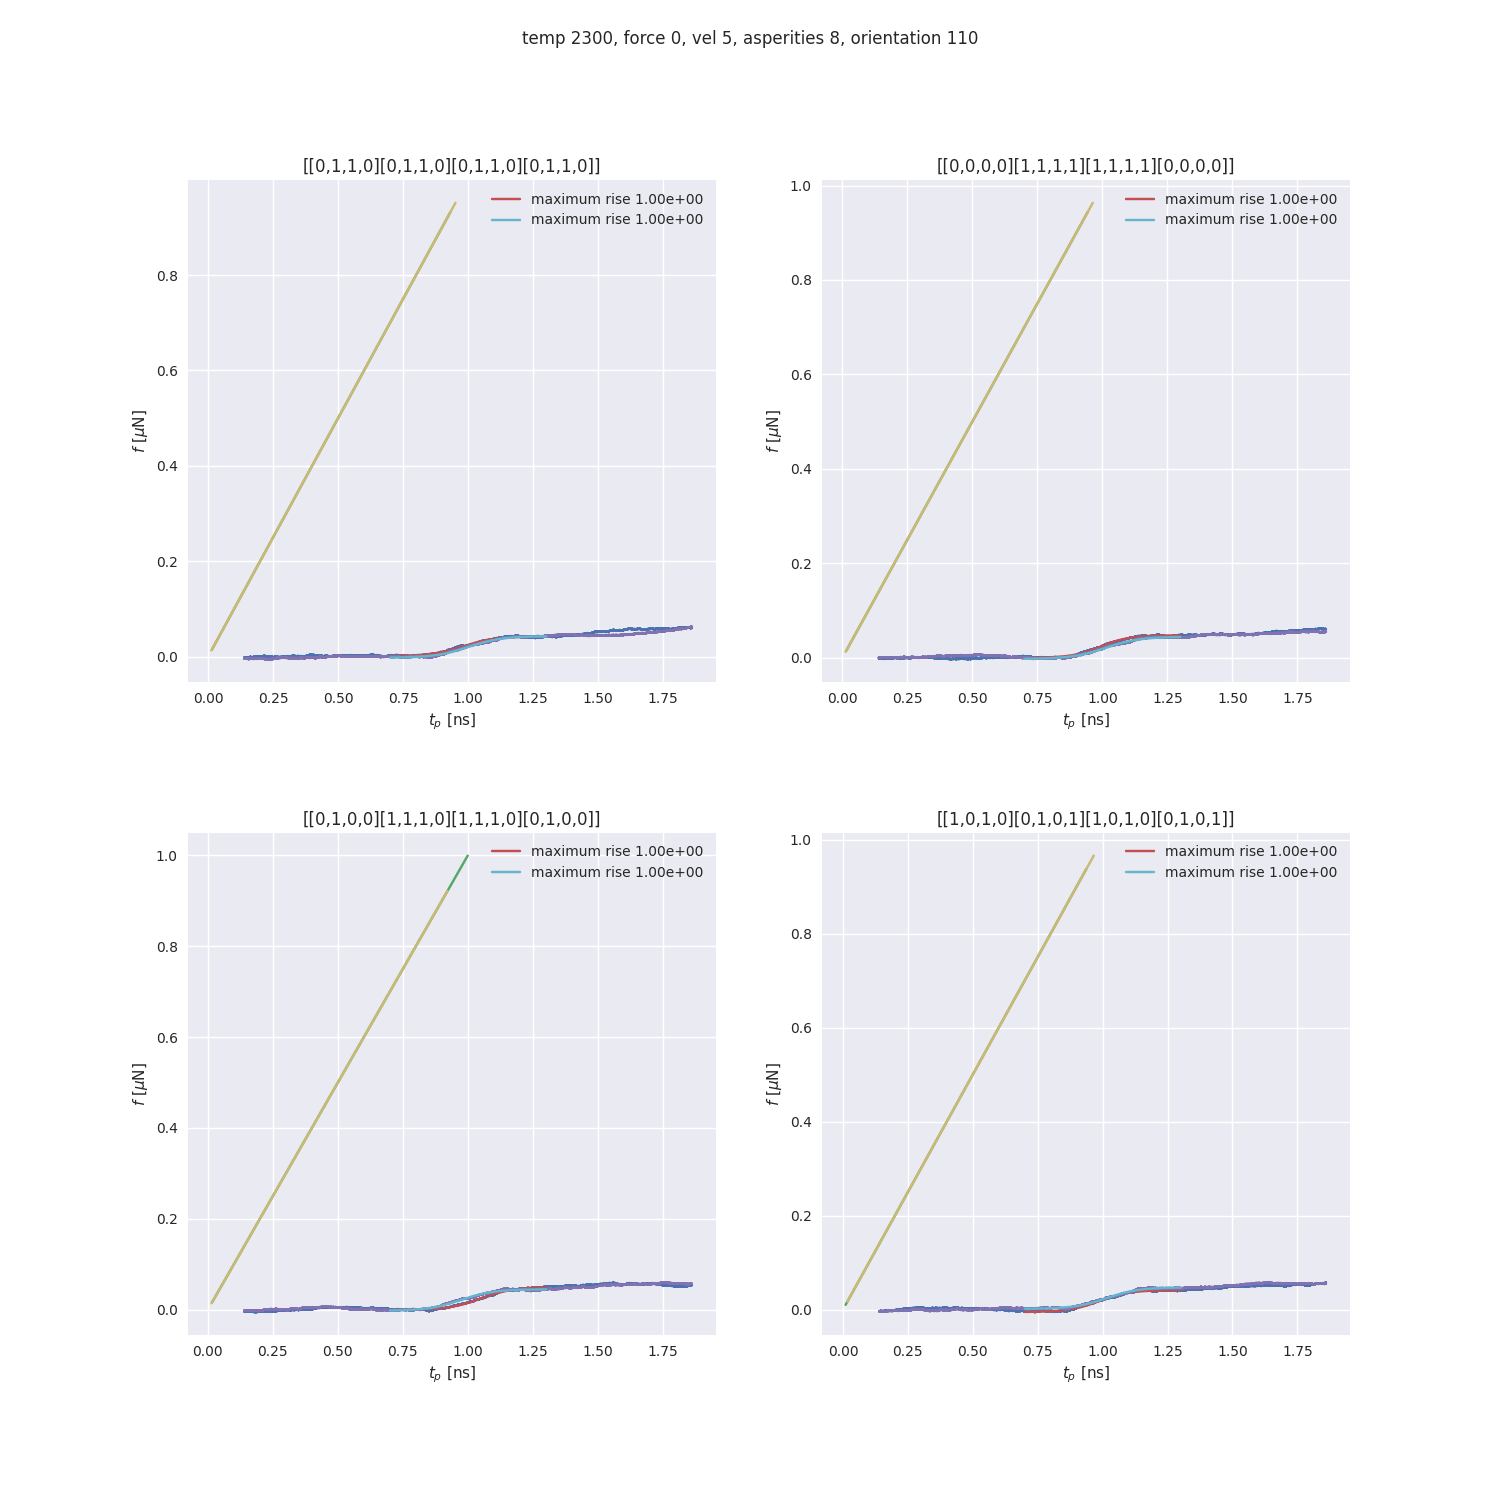
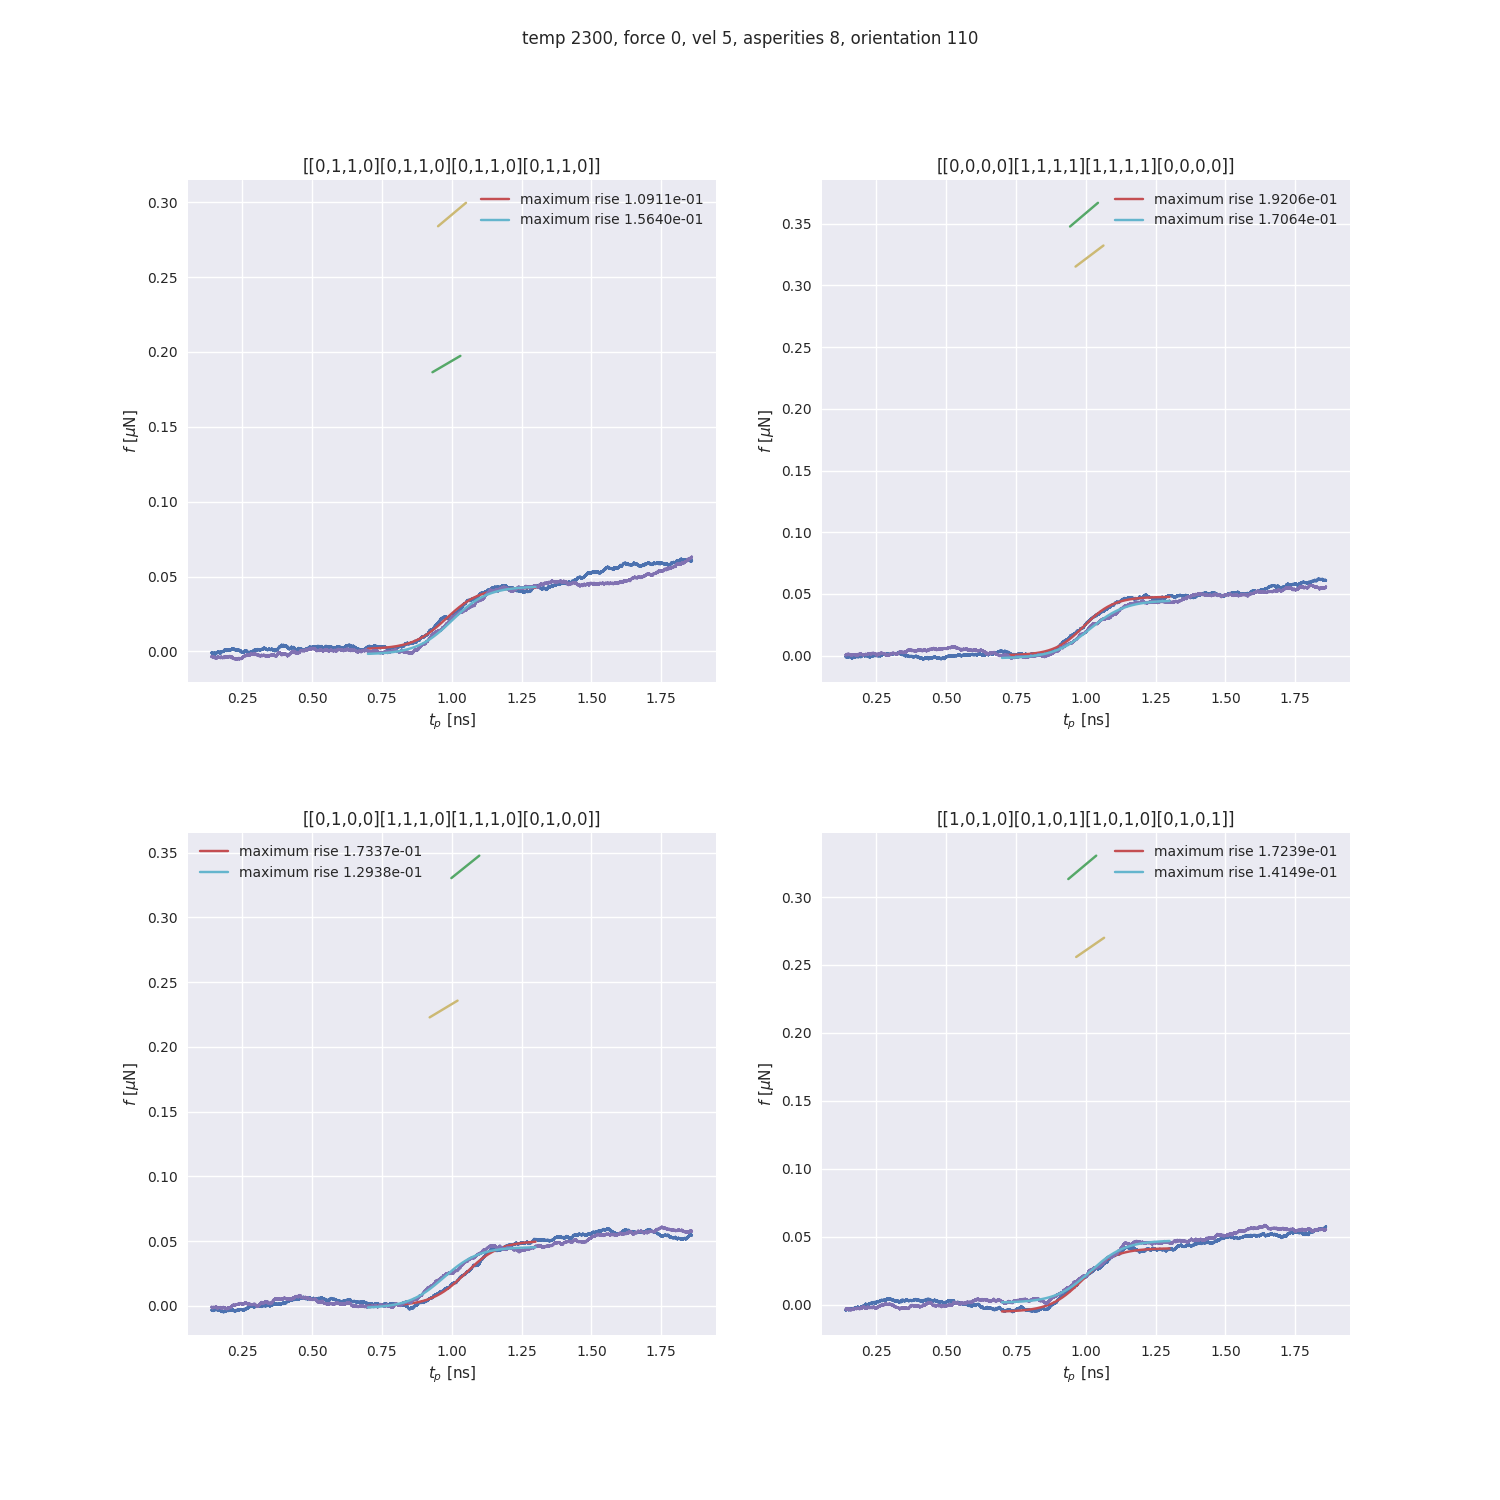
think i fixed it. index issues, changes from [0] to [:,0]

diff --git a/python/plot/plot_load_curves.py b/python/plot/plot_load_curves.py
@@ -540,19 +540,20 @@ def plot_production(temp, vel, force, uc, asperities, time, orientation, grid, e
             #repeating selection and polyfit but this time fitting linear func to sigmoid midriff
             midriff = np.array((popt[1] - 0.05, popt[1] + 0.05))
 
-            print(midriff)
+            print(f'midriff ',midriff)
             midriff_start_indx = (np.abs(time_nnan - midriff[0])).argmin()
             midriff_stop_indx = (np.abs(time_nnan - midriff[1])).argmin()
 
+            print('midriff indices ', midriff_start_indx, midriff_stop_indx)
             polfit_data2 = np.array((time_nnan[midriff_start_indx:midriff_stop_indx], 
                                     load_curve_nnan[midriff_start_indx:midriff_stop_indx])).T
 
-            rise, intersect = np.polyfit(polfit_data2[0], polfit_data2[1], 1)
+            rise, intersect = np.polyfit(polfit_data2[:,0], polfit_data2[:,1], 1)
 
             print(rise, intersect)
             print(polfit_data2)
-            axs[i].plot(polfit_data2[0], polfit_data2[0]*rise - intersect)
-            axs[i].plot(time_nnan, sigmoid(time_nnan, *popt), label = f'maximum rise {rise:.2e}')
+            axs[i].plot(polfit_data2[:,0], polfit_data2[:,0]*rise - intersect)
+            axs[i].plot(time_nnan, sigmoid(time_nnan, *popt), label = f'maximum rise {rise:.4e}')
             axs[i].legend()
 
         for ms in ms_all:
